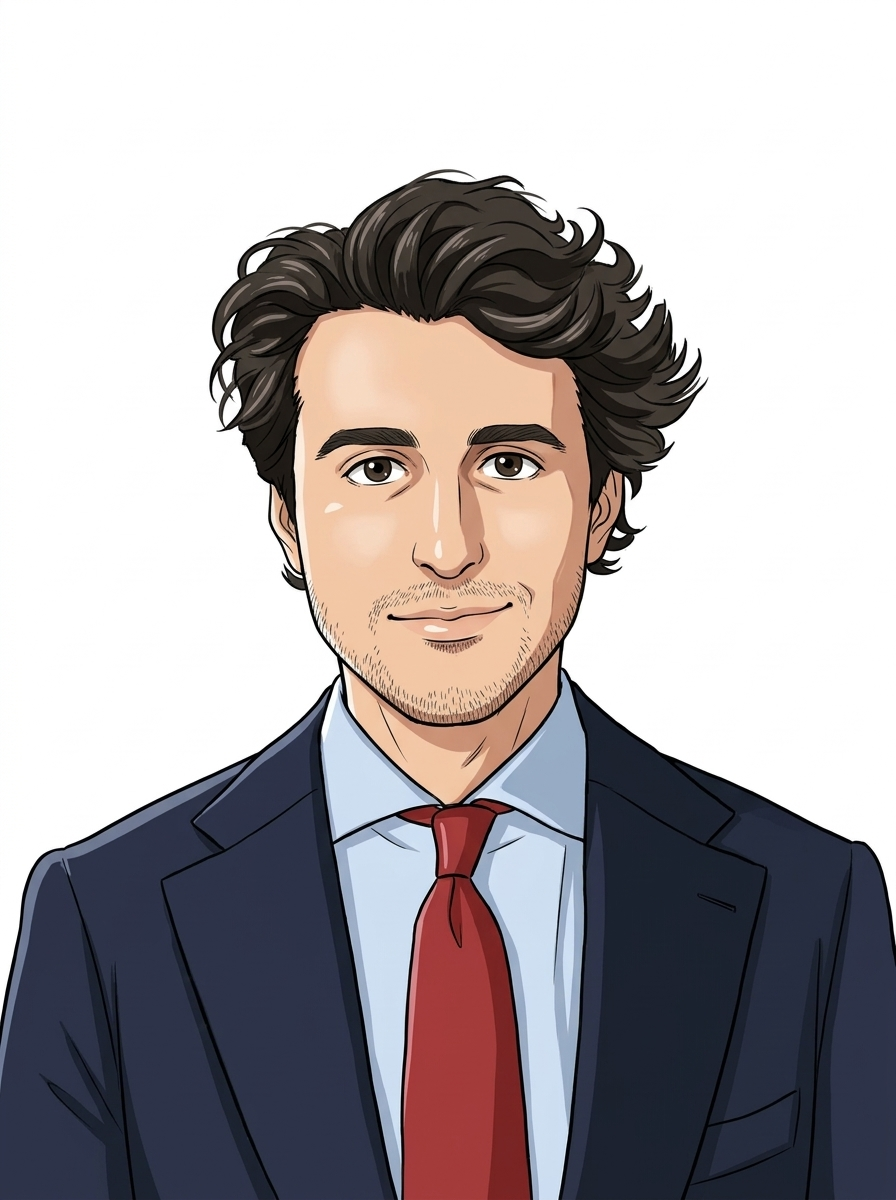
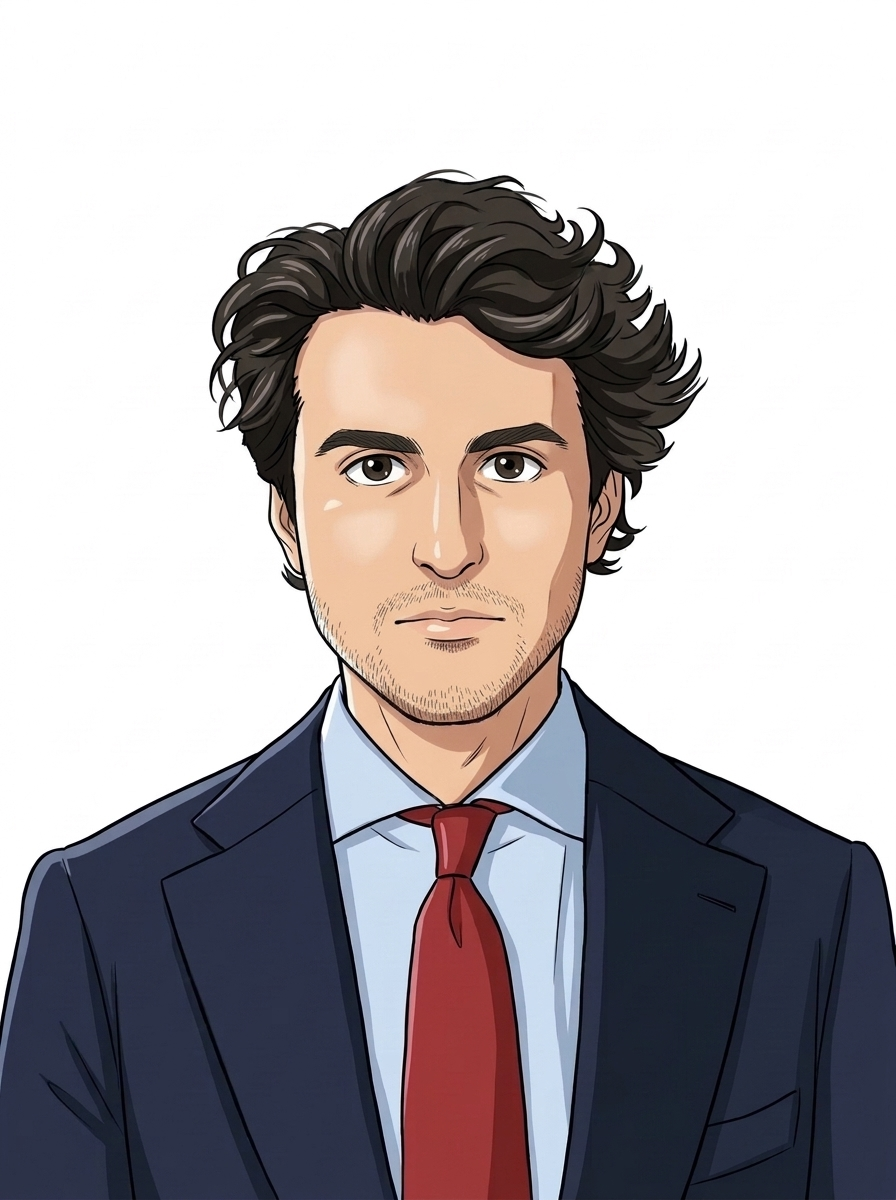
Manga-pilot: neutrale versie zonder lach; de vorige neutrale versie heet nu 'vriendelijk'. Met foto eerst 'vriendelijk', daarna 'neutraal'
Claude-Session: https://claude.ai/code/session_01PPD81pUqwBLdc97B7WHz9X

Changed region(s): [[0.3438, 0.4625, 0.6562, 0.6167], [0.5, 0.3392, 0.625, 0.4317], [0.3438, 0.3392, 0.4688, 0.4317]]

diff --git a/scripts/manga.py b/scripts/manga.py
@@ -20,7 +20,8 @@ URL = "https://generativelanguage.googleapis.com/v1beta/models/{model}:generateC
 MODEL = "gemini-3.1-flash-image"
 PILOT = ["Geert Wilders", "Jesse Klaver", "Mona Keijzer", "Caroline van der Plas", "Don Ceder"]
 EMOTIES = {
-    "neutraal": "calm, attentive expression, mouth closed",
+    "neutraal": "calm, attentive, serious expression, mouth closed, no smile, relaxed neutral lips",
+    "vriendelijk": "calm, friendly expression with the person's natural slight smile",
     "blij": "a warm, genuine smile",
     "boos": "frowning, firm mouth, clearly displeased but not shouting",
     "bezorgd": "inner eyebrows slightly raised, a concerned look",
@@ -140,24 +141,28 @@ def bestaand(map_, emo):
 
 
 def maak(sleutel, u, emoties, log, stijl="zw"):
+    """Volgorde: met portretfoto eerst 'vriendelijk' (naar de foto, met de eigen lichte glimlach), dan 'neutraal'
+    (zelfde figuur, zonder lach) met 'vriendelijk' als voorbeeld; daarna de andere emoties met 'neutraal' als voorbeeld."""
     map_ = ROOT / "data" / "manga" / stijl / sleutel.replace(":", "-")
     map_.mkdir(parents=True, exist_ok=True)
     basis = f"{STIJLEN[stijl]}\n\nCharacter: {beschrijving(u, sleutel)}"
-    for emo in ["neutraal"] + [e for e in emoties if e != "neutraal"]:
-        if emo not in emoties and bestaand(map_, "neutraal"):
+    met_foto = bool(foto_toegestaan(sleutel))
+    eerst = (["vriendelijk"] if met_foto else []) + ["neutraal"]
+    for emo in eerst + [e for e in emoties if e not in eerst]:
+        if emo not in emoties and bestaand(map_, emo):
             continue
         if bestaand(map_, emo):
             continue
         tekst_houding = HOUDINGEN.get(emo)
         tekst = f"{basis}\n{tekst_houding}" if tekst_houding else f"{basis}\nExpression: {EMOTIES[emo]}."
         delen = [{"text": tekst}]
-        foto = foto_toegestaan(sleutel) if emo == "neutraal" else None
+        foto = foto_toegestaan(sleutel) if emo == "vriendelijk" else None
         if foto:
             tekst = FOTO_PROMPT.format(stijl=STIJLEN[stijl], kleur=ACCENT.get(u.get("fractie") or "", "dark grey"))
             delen = [{"text": tekst}, {"inlineData": {"mimeType": "image/jpeg",
                                                       "data": base64.b64encode(foto.read_bytes()).decode()}}]
-        ref = bestaand(map_, "neutraal")
-        if emo != "neutraal" and ref:
+        ref = bestaand(map_, "vriendelijk" if emo == "neutraal" else "neutraal")
+        if not foto and ref:
             mime = "image/jpeg" if ref.suffix == ".jpg" else "image/png"
             delen = [{"text": "Draw exactly the same character as in this reference image, same face, hair, clothes, "
                               "style and framing; only change what is described below.\n\n" + tekst},
